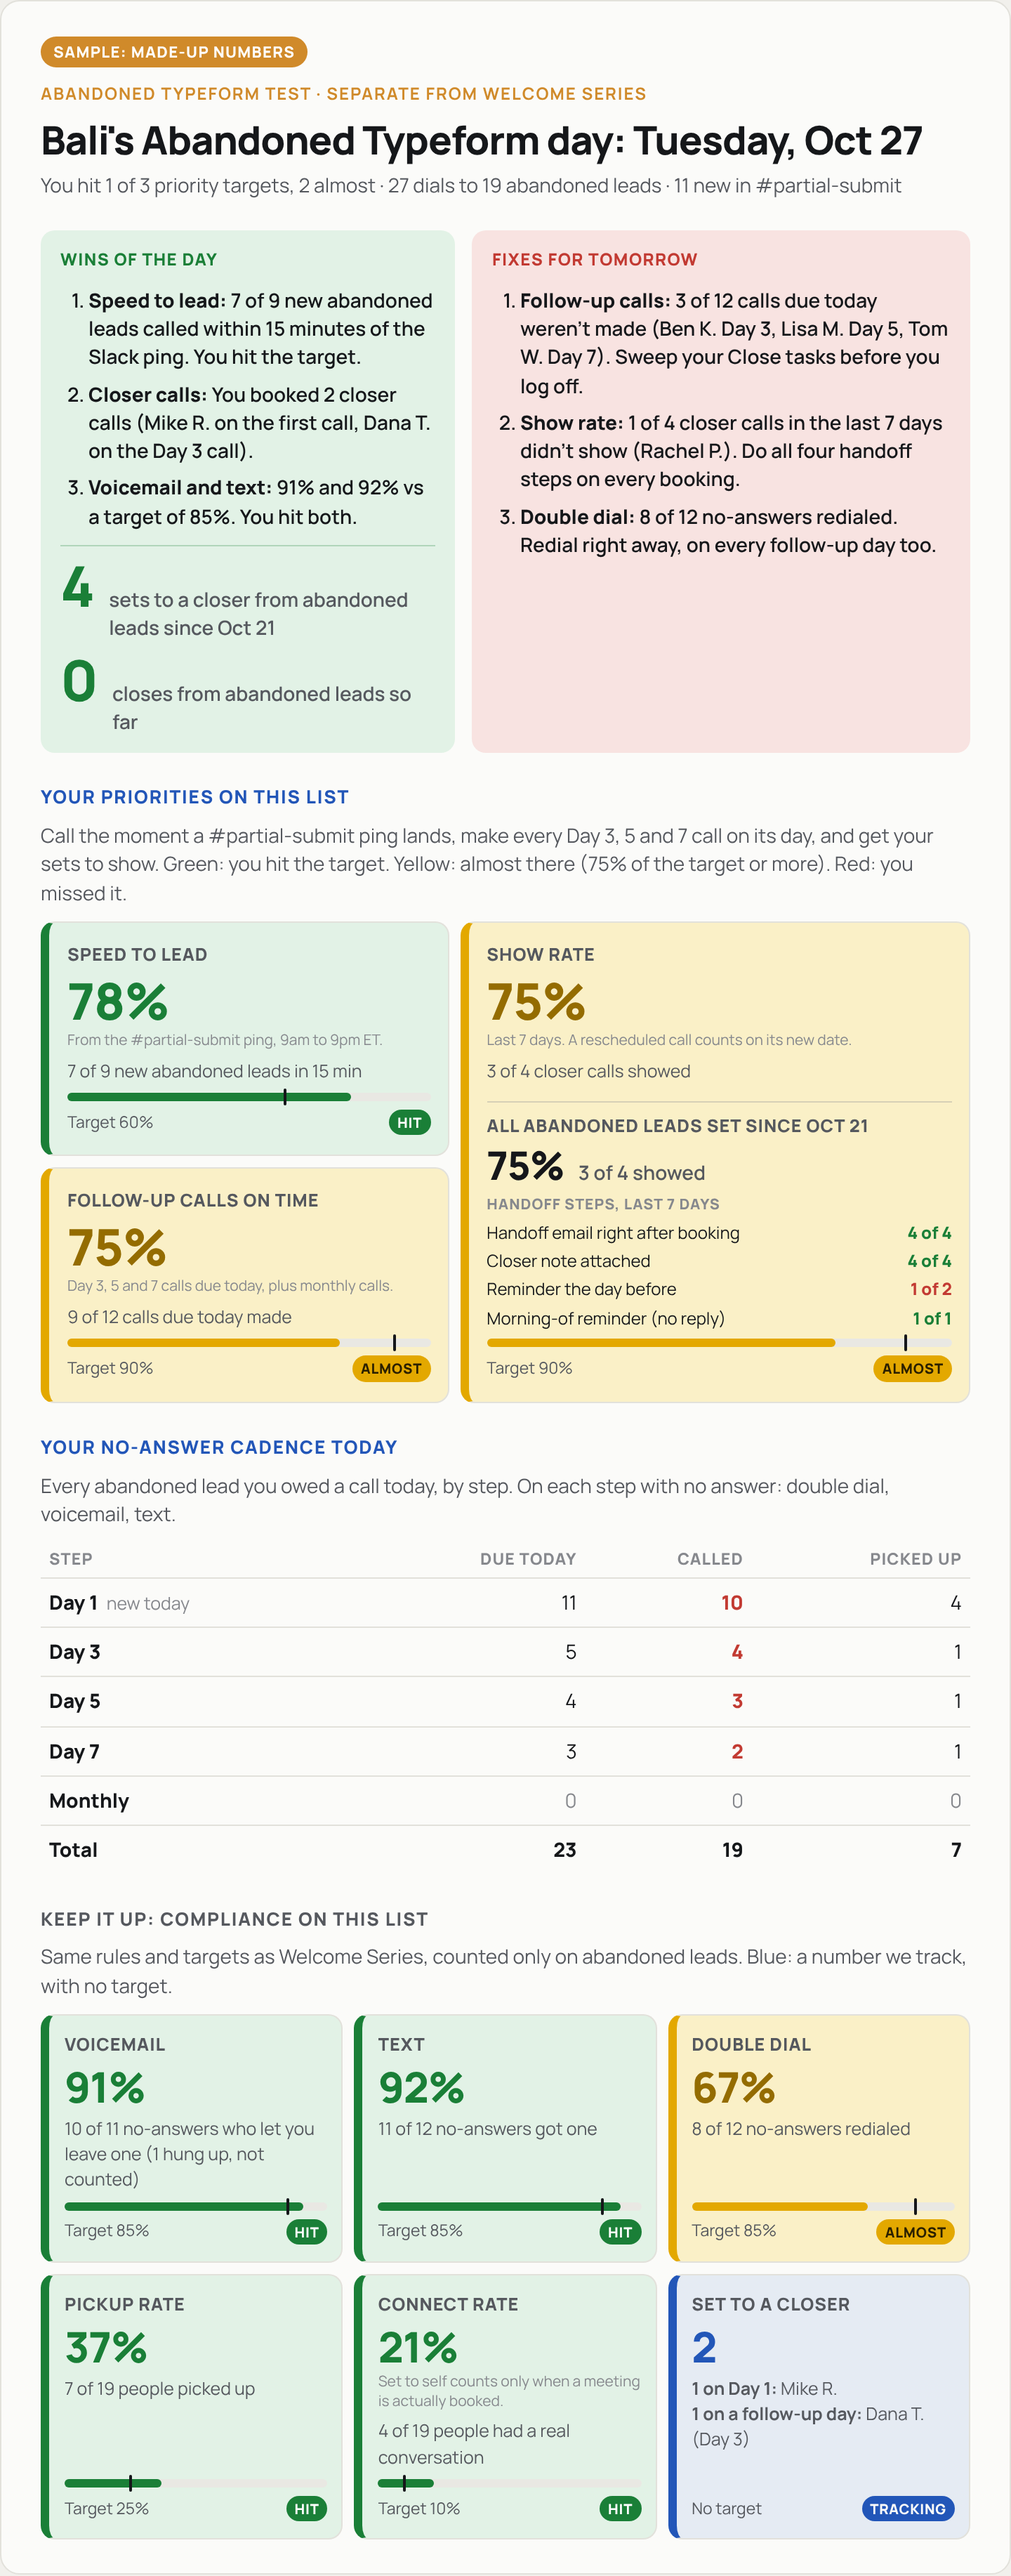
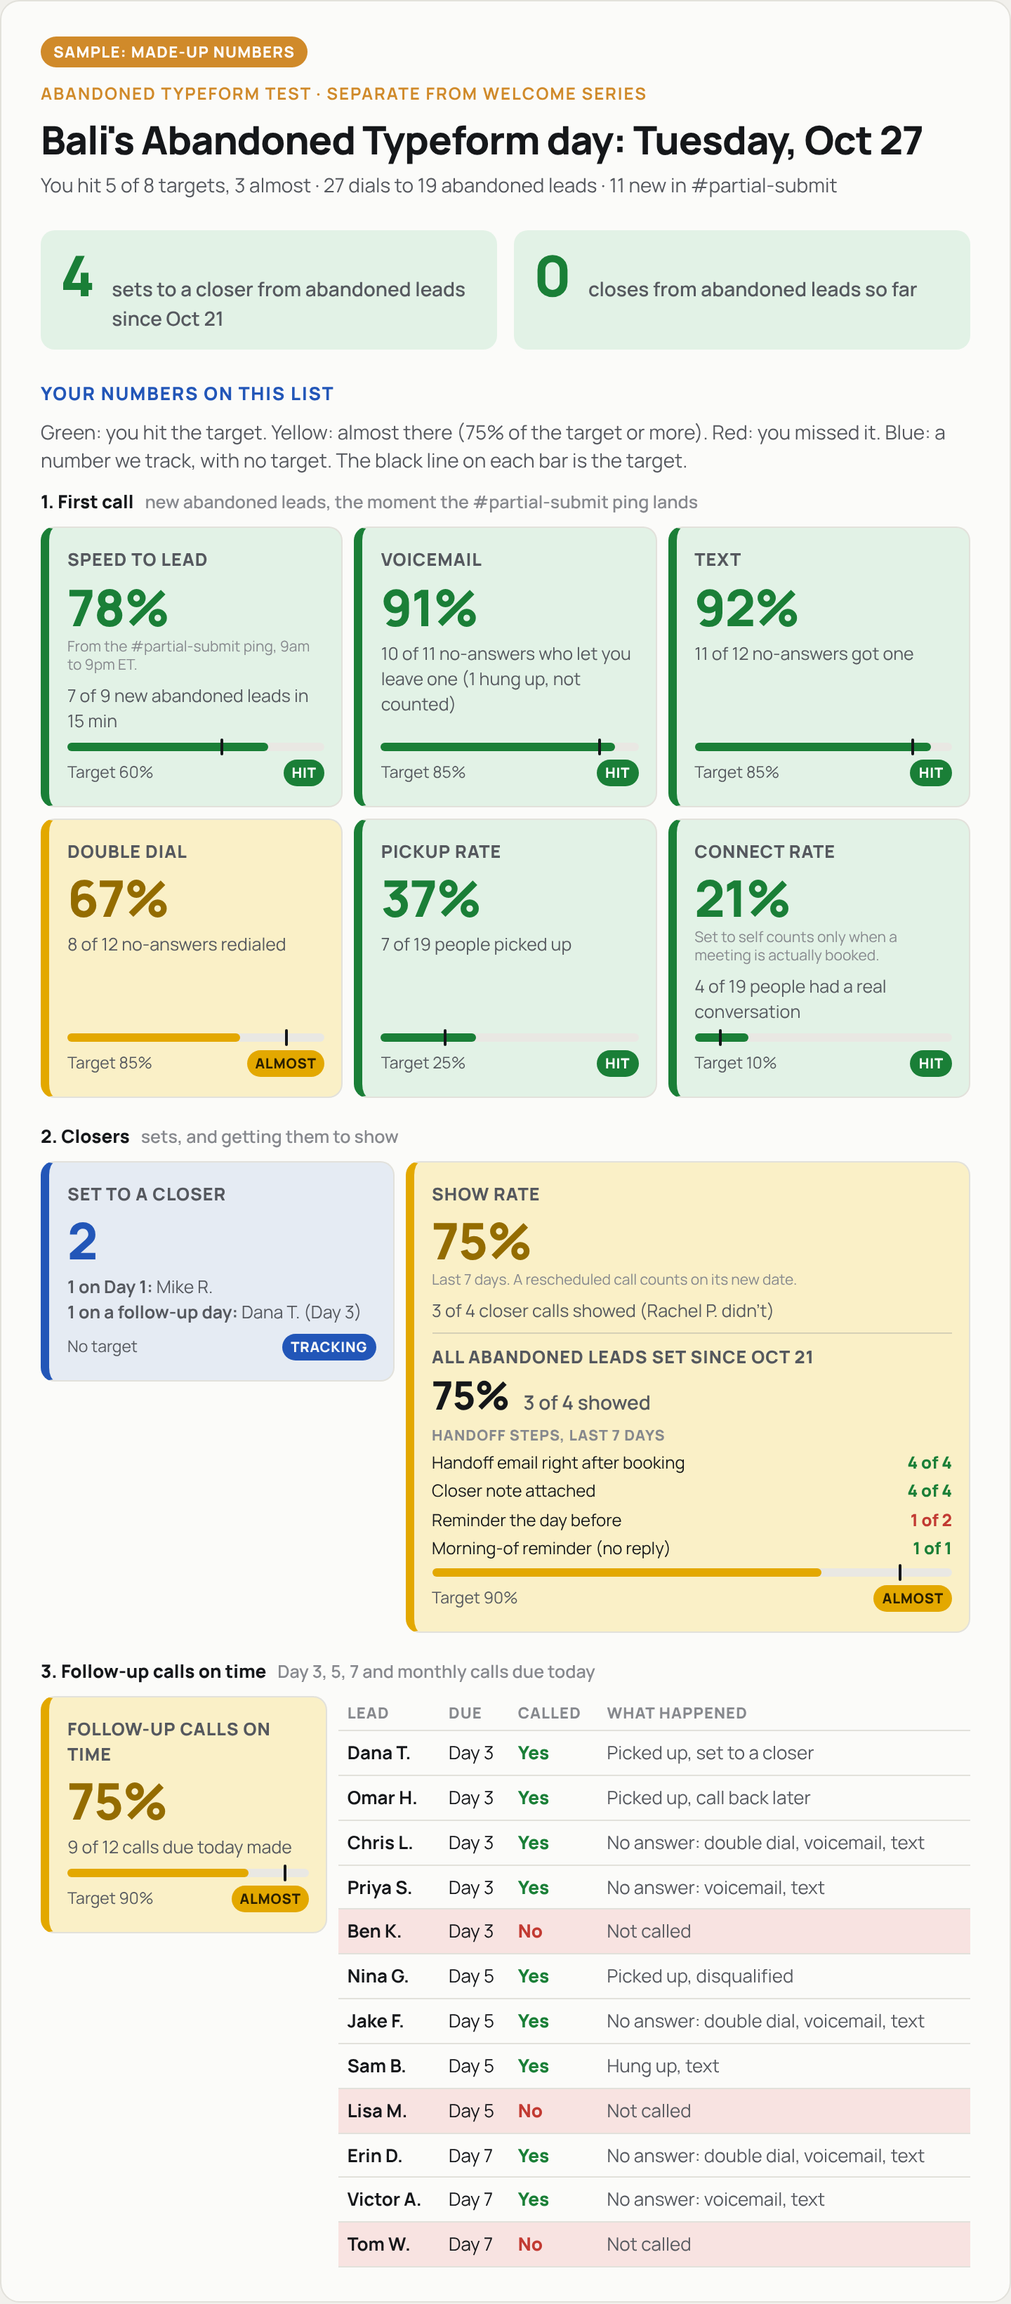
Abandoned Typeform mock v2: one KPI section in three groups, no fixes or cadence table
Sheila's Oct 21 changes: wins/fixes replaced by cumulative sets and closes; cadence
table dropped; KPIs grouped as first call, closers, follow-up calls on time (with
the leads due that day listed).

Claude-Session: https://claude.ai/code/session_01M2z7Wtog6BdoSHmibi6hqg

diff --git a/mockups/abandoned-typeform/card.html b/mockups/abandoned-typeform/card.html
@@ -1,16 +1,30 @@
-<!-- MOCKUP (Oct 21, 2026): Abandoned Typeform card for Bali, a third image separate from the Welcome Series cards.
-     Static sample numbers, not from Close. Styles come from kit/template.html and kit/cover.html (see render.py). -->
+<!-- MOCKUP v2 (Oct 21, 2026): Abandoned Typeform card for Bali, a third image separate from the Welcome Series cards.
+     Static sample numbers, not from Close. Styles come from kit/template.html and kit/cover.html (see render.py).
+     v2 (Sheila, Oct 21): no wins/fixes, only the cumulative sets and closes on top; no cadence table;
+     one KPI section in three groups: first call, closers, follow-up calls on time (with the leads due listed). -->
 <style>
 .sample{display:inline-block;font-size:11px;font-weight:800;letter-spacing:.06em;text-transform:uppercase;color:#fff;background:var(--older);border-radius:999px;padding:3px 9px}
 #card3 .eyebrow{color:var(--older)}
-.cad{width:100%;border-collapse:collapse;font-size:14px}
-.cad th{font-size:11.5px;font-weight:800;letter-spacing:.05em;text-transform:uppercase;color:var(--ink3);text-align:right;padding:4px 6px;border-bottom:1px solid var(--line)}
-.cad th:first-child,.cad td:first-child{text-align:left}
-.cad td{padding:7px 6px;text-align:right;font-variant-numeric:tabular-nums;border-bottom:1px solid var(--line)}
-.cad td:first-child b{font-weight:800}
-.cad td:first-child span{color:var(--ink3);font-size:12.5px;margin-left:6px}
-.cad .ok{color:var(--good);font-weight:800} .cad .no{color:var(--bad);font-weight:800} .cad .na{color:var(--ink3)}
-.cad tr.tot td{font-weight:800;border-bottom:0}
+.tot2{display:grid;grid-template-columns:1fr 1fr;gap:12px}
+.tot2 .callout{display:flex;align-items:baseline;gap:12px}
+.tot2 .n{font-size:40px;font-weight:800;color:var(--good);line-height:1;font-variant-numeric:tabular-nums}
+.tot2 .t{font-size:14px;font-weight:600;color:var(--ink2)}
+.pri .grp > .kpis{grid-template-columns:repeat(3,minmax(0,1fr))}
+.grp{display:flex;flex-direction:column;gap:8px}
+.grp + .grp{margin-top:18px}
+.grp h3{margin:0;font-size:13px;font-weight:800;color:var(--ink);display:flex;gap:8px;align-items:baseline}
+.grp h3 span{font-size:12.5px;font-weight:600;color:var(--ink3)}
+.closers{display:grid;grid-template-columns:minmax(0,1fr) minmax(0,1.6fr);gap:8px}
+.fu{display:grid;grid-template-columns:minmax(0,1fr) minmax(0,2.2fr);gap:8px;align-items:start}
+.due{width:100%;border-collapse:collapse;font-size:13px}
+.due th{font-size:11px;font-weight:800;letter-spacing:.05em;text-transform:uppercase;color:var(--ink3);text-align:left;padding:4px 6px;border-bottom:1px solid var(--line)}
+.due td{padding:6px;border-bottom:1px solid var(--line);vertical-align:top}
+.due td:first-child{font-weight:700;white-space:nowrap}
+.due td.st{white-space:nowrap;font-weight:800}
+.due .ok{color:var(--good)} .due .no{color:var(--bad)}
+.due tr.miss td{background:var(--bad-soft)}
+.due td.r{color:var(--ink2)}
+@media (max-width:560px){.tot2,.closers,.fu,.pri .grp > .kpis{grid-template-columns:1fr}}
 </style>
 
 <div class="card" id="card3">
@@ -18,100 +32,93 @@
     <div class="sample">Sample: made-up numbers</div>
     <div class="eyebrow" style="margin-top:10px">Abandoned Typeform test · separate from Welcome Series</div>
     <h1>Bali's Abandoned Typeform day: Tuesday, Oct 27</h1>
-    <div class="meta">You hit 1 of 3 priority targets, 2 almost · 27 dials to 19 abandoned leads · 11 new in #partial-submit</div>
+    <div class="meta">You hit 5 of 8 targets, 3 almost · 27 dials to 19 abandoned leads · 11 new in #partial-submit</div>
   </header>
 
-  <div class="bl">
-    <div class="callout win">
-      <div class="k">Wins of the day</div>
-      <ol class="fixes">
-        <li><b>Speed to lead:</b> 7 of 9 new abandoned leads called within 15 minutes of the Slack ping. You hit the target.</li>
-        <li><b>Closer calls:</b> You booked 2 closer calls (Mike R. on the first call, Dana T. on the Day 3 call).</li>
-        <li><b>Voicemail and text:</b> 91% and 92% vs a target of 85%. You hit both.</li>
-      </ol>
-      <div class="closes"><div class="n">4</div><div class="t">sets to a closer from abandoned leads since Oct 21</div></div>
-      <div class="closes"><div class="n">0</div><div class="t">closes from abandoned leads so far</div></div>
-    </div>
-    <div class="callout fix">
-      <div class="k">Fixes for tomorrow</div>
-      <ol class="fixes">
-        <li><b>Follow-up calls:</b> 3 of 12 calls due today weren't made (Ben K. Day 3, Lisa M. Day 5, Tom W. Day 7). Sweep your Close tasks before you log off.</li>
-        <li><b>Show rate:</b> 1 of 4 closer calls in the last 7 days didn't show (Rachel P.). Do all four handoff steps on every booking.</li>
-        <li><b>Double dial:</b> 8 of 12 no-answers redialed. Redial right away, on every follow-up day too.</li>
-      </ol>
-    </div>
+  <div class="tot2">
+    <div class="callout win"><div class="n">4</div><div class="t">sets to a closer from abandoned leads since Oct 21</div></div>
+    <div class="callout win"><div class="n">0</div><div class="t">closes from abandoned leads so far</div></div>
   </div>
 
   <section class="pri">
-    <h2>Your priorities on this list</h2>
-    <p class="lead">Call the moment a #partial-submit ping lands, make every Day 3, 5 and 7 call on its day, and get your sets to show. Green: you hit the target. Yellow: almost there (75% of the target or more). Red: you missed it.</p>
-    <div class="kpis">
-      <div class="kpi k-speed hit"><div class="nm">Speed to lead</div><div class="v">78%</div>
-        <div class="nt">From the #partial-submit ping, 9am to 9pm ET.</div>
-        <div class="of">7 of 9 new abandoned leads in 15 min</div>
-        <div class="tbar"><i style="width:78%"></i><b style="left:calc(60% - 1px)"></b></div>
-        <div class="st"><span>Target 60%</span><span class="pill">Hit</span></div></div>
-      <div class="kpi k-fu close"><div class="nm">Follow-up calls on time</div><div class="v">75%</div>
-        <div class="nt">Day 3, 5 and 7 calls due today, plus monthly calls.</div>
-        <div class="of">9 of 12 calls due today made</div>
-        <div class="tbar"><i style="width:75%"></i><b style="left:calc(90% - 1px)"></b></div>
-        <div class="st"><span>Target 90%</span><span class="pill">Almost</span></div></div>
-      <div class="kpi k-show close"><div class="nm">Show rate</div><div class="v">75%</div>
-        <div class="nt">Last 7 days. A rescheduled call counts on its new date.</div>
-        <div class="of">3 of 4 closer calls showed</div>
-        <div class="all"><div class="al">All abandoned leads set since Oct 21</div><div class="av">75%<span>3 of 4 showed</span></div></div>
-        <div class="steps"><div class="sh">Handoff steps, last 7 days</div>
-          <div class="r"><span>Handoff email right after booking</span><span class="ok">4 of 4</span></div>
-          <div class="r"><span>Closer note attached</span><span class="ok">4 of 4</span></div>
-          <div class="r"><span>Reminder the day before</span><span class="no">1 of 2</span></div>
-          <div class="r"><span>Morning-of reminder (no reply)</span><span class="ok">1 of 1</span></div></div>
-        <div class="tbar"><i style="width:75%"></i><b style="left:calc(90% - 1px)"></b></div>
-        <div class="st"><span>Target 90%</span><span class="pill">Almost</span></div></div>
+    <h2>Your numbers on this list</h2>
+    <p class="lead">Green: you hit the target. Yellow: almost there (75% of the target or more). Red: you missed it. Blue: a number we track, with no target. The black line on each bar is the target.</p>
+
+    <div class="grp">
+      <h3>1. First call <span>new abandoned leads, the moment the #partial-submit ping lands</span></h3>
+      <div class="kpis">
+        <div class="kpi hit"><div class="nm">Speed to lead</div><div class="v">78%</div>
+          <div class="nt">From the #partial-submit ping, 9am to 9pm ET.</div>
+          <div class="of">7 of 9 new abandoned leads in 15 min</div>
+          <div class="tbar"><i style="width:78%"></i><b style="left:calc(60% - 1px)"></b></div>
+          <div class="st"><span>Target 60%</span><span class="pill">Hit</span></div></div>
+        <div class="kpi hit"><div class="nm">Voicemail</div><div class="v">91%</div>
+          <div class="of">10 of 11 no-answers who let you leave one (1 hung up, not counted)</div>
+          <div class="tbar"><i style="width:91%"></i><b style="left:calc(85% - 1px)"></b></div>
+          <div class="st"><span>Target 85%</span><span class="pill">Hit</span></div></div>
+        <div class="kpi hit"><div class="nm">Text</div><div class="v">92%</div>
+          <div class="of">11 of 12 no-answers got one</div>
+          <div class="tbar"><i style="width:92%"></i><b style="left:calc(85% - 1px)"></b></div>
+          <div class="st"><span>Target 85%</span><span class="pill">Hit</span></div></div>
+        <div class="kpi close"><div class="nm">Double dial</div><div class="v">67%</div>
+          <div class="of">8 of 12 no-answers redialed</div>
+          <div class="tbar"><i style="width:67%"></i><b style="left:calc(85% - 1px)"></b></div>
+          <div class="st"><span>Target 85%</span><span class="pill">Almost</span></div></div>
+        <div class="kpi hit"><div class="nm">Pickup rate</div><div class="v">37%</div>
+          <div class="of">7 of 19 people picked up</div>
+          <div class="tbar"><i style="width:37%"></i><b style="left:calc(25% - 1px)"></b></div>
+          <div class="st"><span>Target 25%</span><span class="pill">Hit</span></div></div>
+        <div class="kpi hit"><div class="nm">Connect rate</div><div class="v">21%</div>
+          <div class="nt">Set to self counts only when a meeting is actually booked.</div>
+          <div class="of">4 of 19 people had a real conversation</div>
+          <div class="tbar"><i style="width:21%"></i><b style="left:calc(10% - 1px)"></b></div>
+          <div class="st"><span>Target 10%</span><span class="pill">Hit</span></div></div>
+      </div>
     </div>
-  </section>
 
-  <section>
-    <h2>Your no-answer cadence today</h2>
-    <p class="lead">Every abandoned lead you owed a call today, by step. On each step with no answer: double dial, voicemail, text.</p>
-    <table class="cad">
-      <tr><th>Step</th><th>Due today</th><th>Called</th><th>Picked up</th></tr>
-      <tr><td><b>Day 1</b><span>new today</span></td><td>11</td><td class="no">10</td><td>4</td></tr>
-      <tr><td><b>Day 3</b></td><td>5</td><td class="no">4</td><td>1</td></tr>
-      <tr><td><b>Day 5</b></td><td>4</td><td class="no">3</td><td>1</td></tr>
-      <tr><td><b>Day 7</b></td><td>3</td><td class="no">2</td><td>1</td></tr>
-      <tr><td><b>Monthly</b></td><td class="na">0</td><td class="na">0</td><td class="na">0</td></tr>
-      <tr class="tot"><td>Total</td><td>23</td><td>19</td><td>7</td></tr>
-    </table>
-  </section>
+    <div class="grp">
+      <h3>2. Closers <span>sets, and getting them to show</span></h3>
+      <div class="closers">
+        <div class="kpi track"><div class="nm">Set to a closer</div><div class="v">2</div>
+          <div class="of"><b>1 on Day 1:</b> Mike R.<br><b>1 on a follow-up day:</b> Dana T. (Day 3)</div>
+          <div class="st"><span>No target</span><span class="pill">Tracking</span></div></div>
+        <div class="kpi k-show close"><div class="nm">Show rate</div><div class="v">75%</div>
+          <div class="nt">Last 7 days. A rescheduled call counts on its new date.</div>
+          <div class="of">3 of 4 closer calls showed (Rachel P. didn't)</div>
+          <div class="all"><div class="al">All abandoned leads set since Oct 21</div><div class="av">75%<span>3 of 4 showed</span></div></div>
+          <div class="steps"><div class="sh">Handoff steps, last 7 days</div>
+            <div class="r"><span>Handoff email right after booking</span><span class="ok">4 of 4</span></div>
+            <div class="r"><span>Closer note attached</span><span class="ok">4 of 4</span></div>
+            <div class="r"><span>Reminder the day before</span><span class="no">1 of 2</span></div>
+            <div class="r"><span>Morning-of reminder (no reply)</span><span class="ok">1 of 1</span></div></div>
+          <div class="tbar"><i style="width:75%"></i><b style="left:calc(90% - 1px)"></b></div>
+          <div class="st"><span>Target 90%</span><span class="pill">Almost</span></div></div>
+      </div>
+    </div>
 
-  <section class="comp">
-    <h2>Keep it up: compliance on this list</h2>
-    <p class="lead">Same rules and targets as Welcome Series, counted only on abandoned leads. Blue: a number we track, with no target.</p>
-    <div class="kpis">
-      <div class="kpi hit"><div class="nm">Voicemail</div><div class="v">91%</div>
-        <div class="of">10 of 11 no-answers who let you leave one (1 hung up, not counted)</div>
-        <div class="tbar"><i style="width:91%"></i><b style="left:calc(85% - 1px)"></b></div>
-        <div class="st"><span>Target 85%</span><span class="pill">Hit</span></div></div>
-      <div class="kpi hit"><div class="nm">Text</div><div class="v">92%</div>
-        <div class="of">11 of 12 no-answers got one</div>
-        <div class="tbar"><i style="width:92%"></i><b style="left:calc(85% - 1px)"></b></div>
-        <div class="st"><span>Target 85%</span><span class="pill">Hit</span></div></div>
-      <div class="kpi close"><div class="nm">Double dial</div><div class="v">67%</div>
-        <div class="of">8 of 12 no-answers redialed</div>
-        <div class="tbar"><i style="width:67%"></i><b style="left:calc(85% - 1px)"></b></div>
-        <div class="st"><span>Target 85%</span><span class="pill">Almost</span></div></div>
-      <div class="kpi hit"><div class="nm">Pickup rate</div><div class="v">37%</div>
-        <div class="of">7 of 19 people picked up</div>
-        <div class="tbar"><i style="width:37%"></i><b style="left:calc(25% - 1px)"></b></div>
-        <div class="st"><span>Target 25%</span><span class="pill">Hit</span></div></div>
-      <div class="kpi hit"><div class="nm">Connect rate</div><div class="v">21%</div>
-        <div class="nt">Set to self counts only when a meeting is actually booked.</div>
-        <div class="of">4 of 19 people had a real conversation</div>
-        <div class="tbar"><i style="width:21%"></i><b style="left:calc(10% - 1px)"></b></div>
-        <div class="st"><span>Target 10%</span><span class="pill">Hit</span></div></div>
-      <div class="kpi track"><div class="nm">Set to a closer</div><div class="v">2</div>
-        <div class="of"><b>1 on Day 1:</b> Mike R.<br><b>1 on a follow-up day:</b> Dana T. (Day 3)</div>
-        <div class="st"><span>No target</span><span class="pill">Tracking</span></div></div>
+    <div class="grp">
+      <h3>3. Follow-up calls on time <span>Day 3, 5, 7 and monthly calls due today</span></h3>
+      <div class="fu">
+        <div class="kpi close"><div class="nm">Follow-up calls on time</div><div class="v">75%</div>
+          <div class="of">9 of 12 calls due today made</div>
+          <div class="tbar"><i style="width:75%"></i><b style="left:calc(90% - 1px)"></b></div>
+          <div class="st"><span>Target 90%</span><span class="pill">Almost</span></div></div>
+        <table class="due">
+          <tr><th>Lead</th><th>Due</th><th>Called</th><th>What happened</th></tr>
+          <tr><td>Dana T.</td><td>Day 3</td><td class="st ok">Yes</td><td class="r">Picked up, set to a closer</td></tr>
+          <tr><td>Omar H.</td><td>Day 3</td><td class="st ok">Yes</td><td class="r">Picked up, call back later</td></tr>
+          <tr><td>Chris L.</td><td>Day 3</td><td class="st ok">Yes</td><td class="r">No answer: double dial, voicemail, text</td></tr>
+          <tr><td>Priya S.</td><td>Day 3</td><td class="st ok">Yes</td><td class="r">No answer: voicemail, text</td></tr>
+          <tr class="miss"><td>Ben K.</td><td>Day 3</td><td class="st no">No</td><td class="r">Not called</td></tr>
+          <tr><td>Nina G.</td><td>Day 5</td><td class="st ok">Yes</td><td class="r">Picked up, disqualified</td></tr>
+          <tr><td>Jake F.</td><td>Day 5</td><td class="st ok">Yes</td><td class="r">No answer: double dial, voicemail, text</td></tr>
+          <tr><td>Sam B.</td><td>Day 5</td><td class="st ok">Yes</td><td class="r">Hung up, text</td></tr>
+          <tr class="miss"><td>Lisa M.</td><td>Day 5</td><td class="st no">No</td><td class="r">Not called</td></tr>
+          <tr><td>Erin D.</td><td>Day 7</td><td class="st ok">Yes</td><td class="r">No answer: double dial, voicemail, text</td></tr>
+          <tr><td>Victor A.</td><td>Day 7</td><td class="st ok">Yes</td><td class="r">No answer: voicemail, text</td></tr>
+          <tr class="miss"><td>Tom W.</td><td>Day 7</td><td class="st no">No</td><td class="r">Not called</td></tr>
+        </table>
+      </div>
     </div>
   </section>
 </div>
